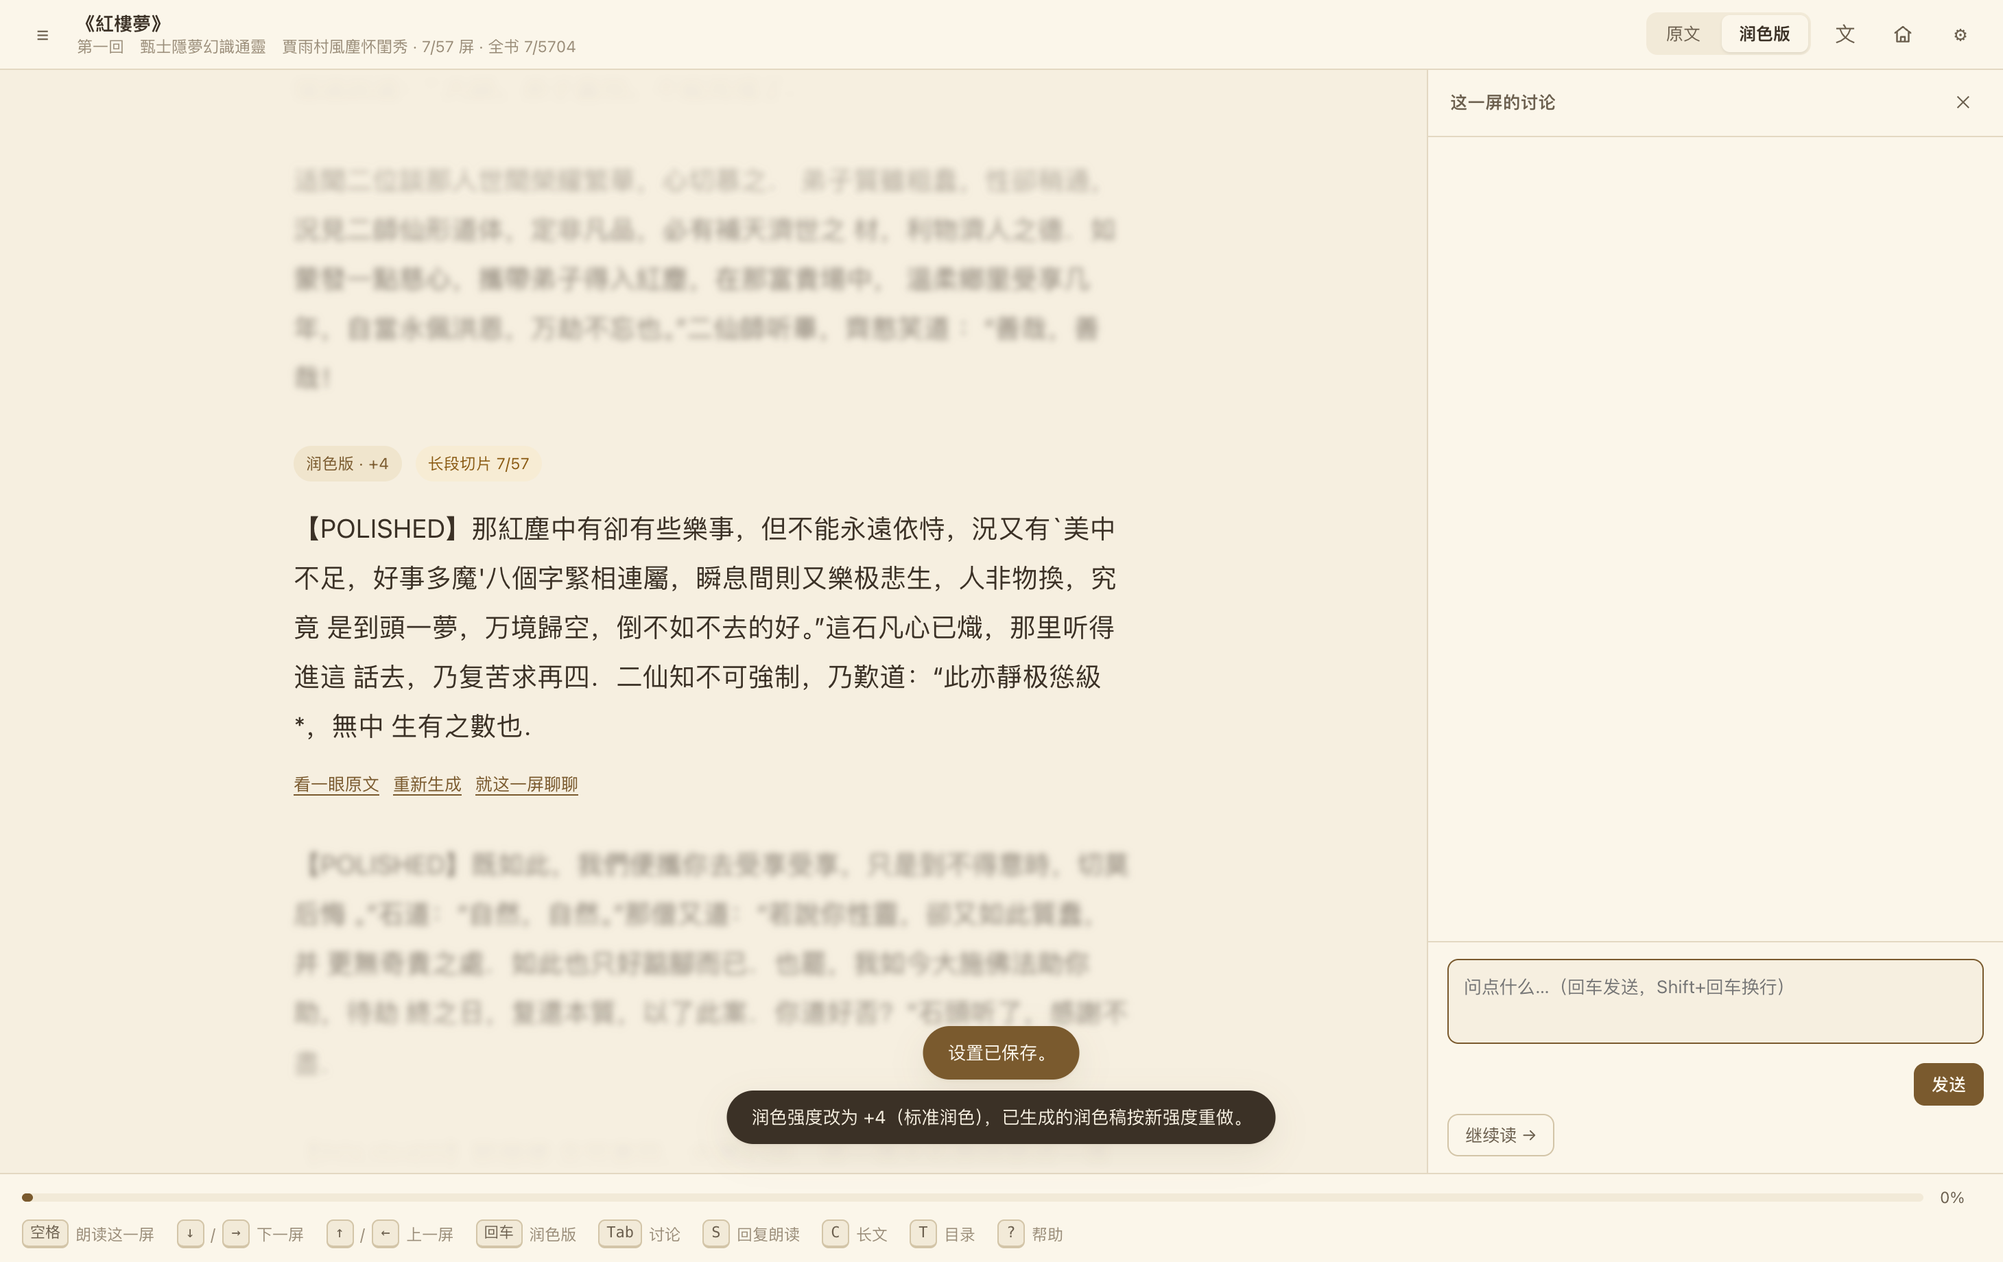
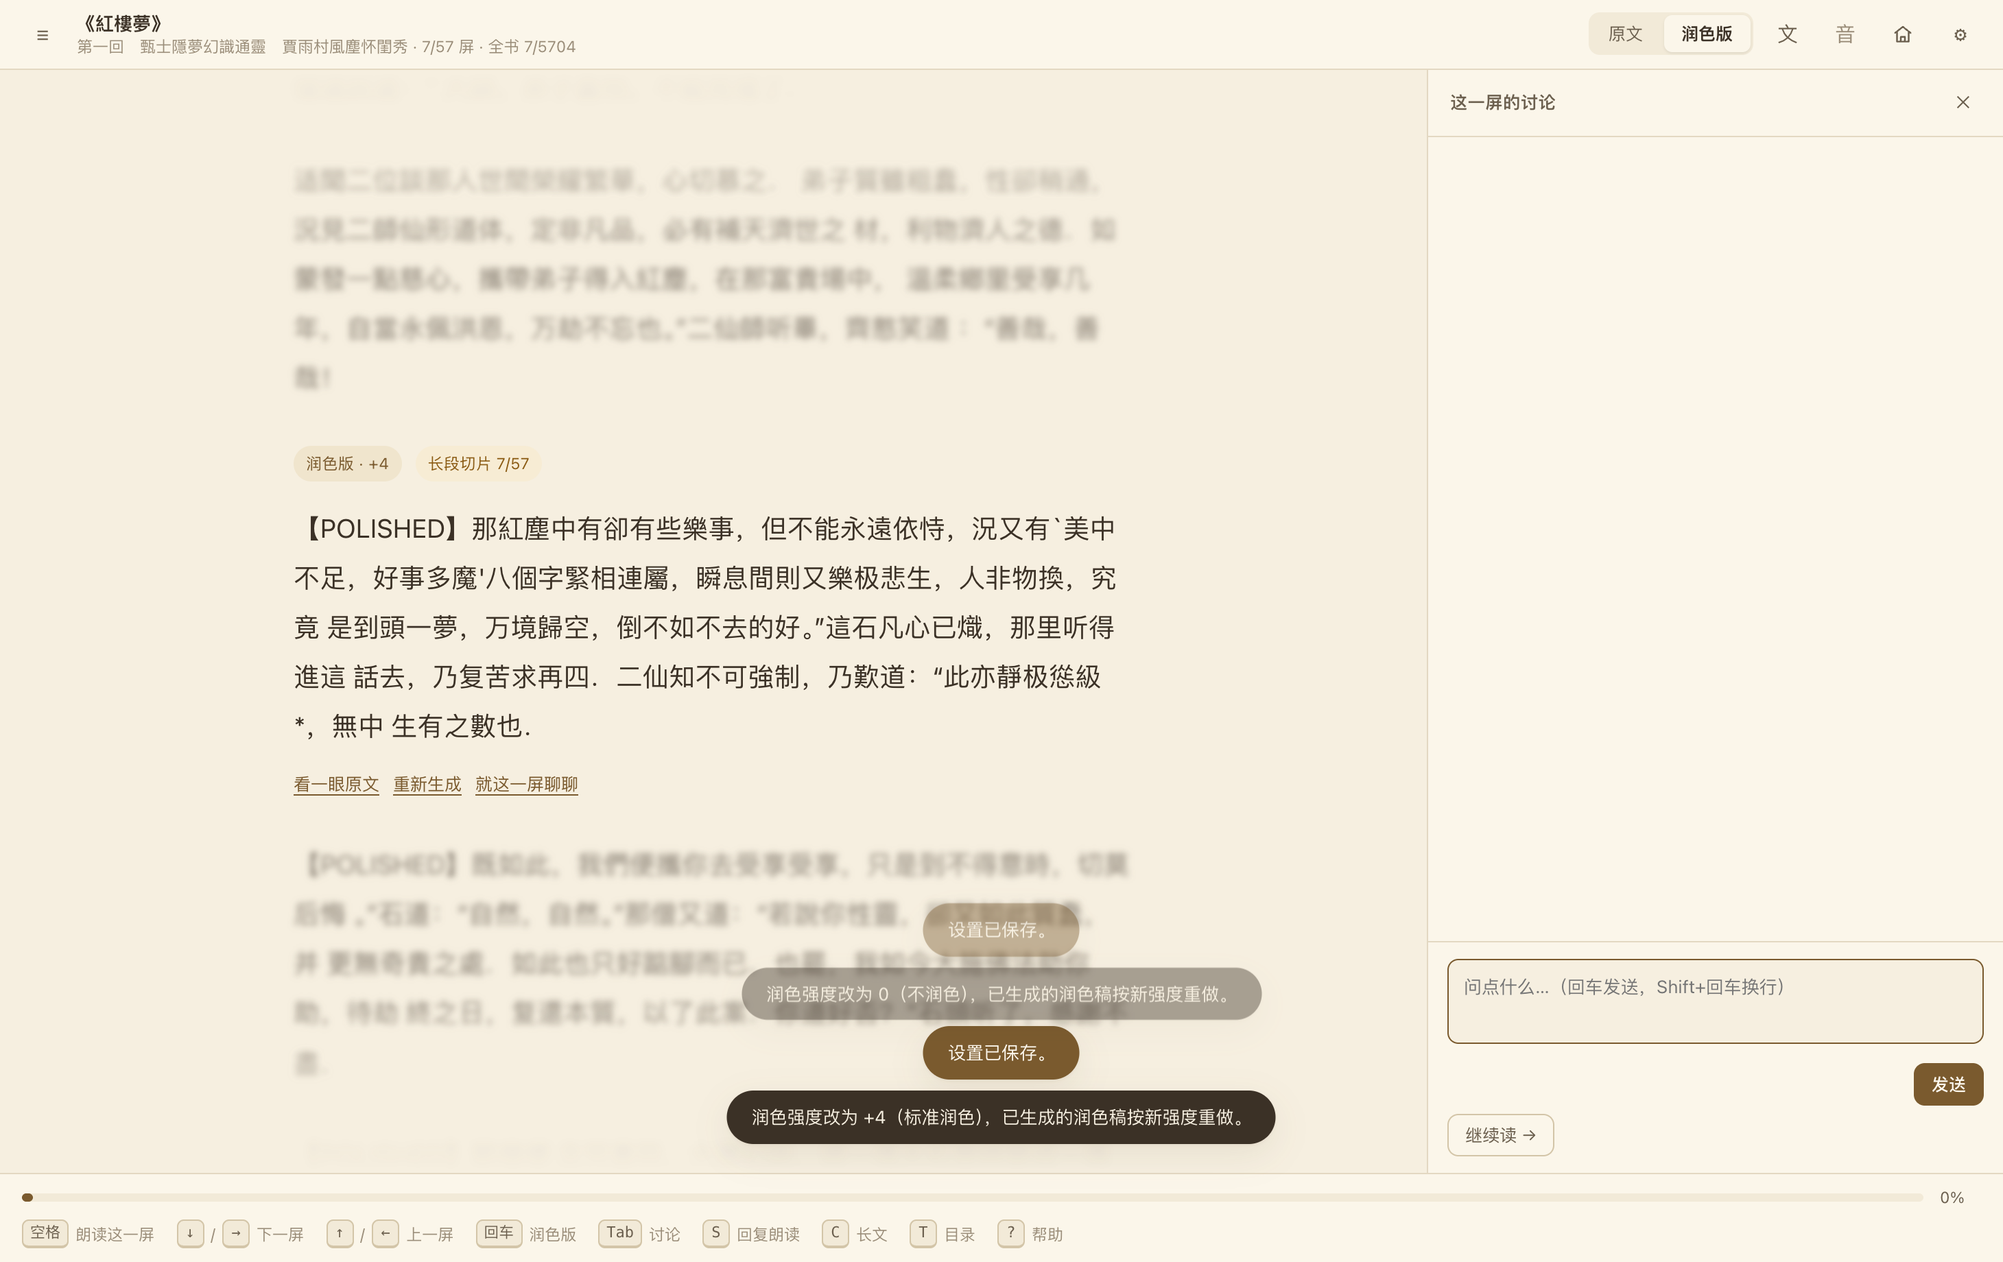
AI 伴读 v1.15~v1.18：音色中文标签、翻屏自动朗读、悬浮提示、引用角标过滤
- v1.15 朗读音色下拉显示中文特点（Serena·女声，温柔），option.value 仍是服务端认的英文名
- v1.16 顶栏「音」＝翻屏自动朗读开关（原设置弹窗里的开关移除），关闭时顺手停读
- v1.17 顶栏按钮的悬浮说明改用 data-tip + 伪元素气泡：原生 title 在 Chrome 要等约 1 秒才弹
- v1.18 润色稿里不显示引用角标（[11]/[12]/[1-3]/[11,12]，含全角）：
  prompts.js 的事实底线新增 1.1 条要求模型直接删；app.js 加 stripRefMarks() 兜底，
  只挂在「读盘」与「写入内存/磁盘」两个口子，渲染/朗读/长文视图共用同一份文本，
  磁盘里的旧稿也被覆盖；原文模式与「看一眼原文」照旧保留标号
- tts-server/README.md 去掉写死的本机绝对路径

验证：e2e-reading.mjs 108/108（新增 2 项盯引用角标）、e2e-space.mjs 42/42

Changed region(s): [[0.374, 0.7125, 0.6545, 0.8054], [0.8103, 0.0, 0.9038, 0.031]]

diff --git a/assets/ui.js b/assets/ui.js
@@ -260,7 +260,7 @@
       grid.push(h('div', { text: r[1] }));
     });
     var body = h('div', {}, [
-      h('p', { class: 'box-note', text: '焦点模式下当前段居中、前后文按距离虚化，正文不会滚动；用键或滚轮一屏一屏走。正文可以直接划词复制，也可以点前后文里虚化的某一段跳过去。空格读的是你此刻看到的这一版正文，换屏、换模式、切长文都会自动停下。讨论输入框里所有单字母快捷键与空格都不生效，正常输入。' }),
+      h('p', { class: 'box-note', text: '焦点模式下当前段居中、前后文按距离虚化，正文不会滚动；用键或滚轮一屏一屏走。正文可以直接划词复制，也可以点前后文里虚化的某一段跳过去。空格读的是你此刻看到的这一版正文，换屏、换模式、切长文都会自动停下。顶栏那个「音」＝翻屏自动朗读：亮着时每翻到新的一屏就自己念，灰着时不动。讨论输入框里所有单字母快捷键与空格都不生效，正常输入。' }),
       h('div', { class: 'kbd-list' }, grid)
     ]);
     return modal('快捷键', body, [h('button', { class: 'btn primary', type: 'button', onclick: onClose }, ['知道了'])], onClose);
@@ -541,6 +541,24 @@
       default: 'Serena', alloy: 'Serena', zf_xiaoxiao: 'Vivian',
       'zh-CN-XiaoxiaoNeural': 'Vivian', 'zh-CN-YunxiNeural': 'Uncle_Fu'
     };
+    // 预设音色的中文特点，格式固定「性别，特点」——英文名光摆着看不出男女、
+    // 也看不出是方言还是外语，用户挑音色等于瞎猜。只在下拉里显示，
+    // option 的 value 仍是纯英文名（服务端认的是那个）。
+    // 表里没有的音色（服务端以后加了新的）就只显示名字，不编描述。
+    var PRESET_DESC = {
+      Serena: '女声，温柔',
+      Vivian: '女声，明亮活泼',
+      Uncle_Fu: '男声，青年',
+      Dylan: '男声，北京口音',
+      Eric: '男声，四川口音',
+      Aiden: '男声，英语',
+      Ryan: '男声，英语',
+      Ono_Anna: '女声，日语',
+      Sohee: '女声，韩语'
+    };
+    function presetLabel(n) {
+      return PRESET_DESC[n] ? n + '·' + PRESET_DESC[n] : n;
+    }
     var savedVoice = String(settings.ttsAudio8Voice || 'Serena');
     var a8VoiceList = [];          // 从服务端拉回来的候选（扁平，含克隆音色）
     var a8PresetList = [];         // 只含预设音色
@@ -592,7 +610,8 @@
       if (presets.length) {
         var op = h('optgroup', { label: '预设音色' });
         presets.forEach(function (n) {
-          op.appendChild(h('option', { value: n, text: n === val && note ? n + note : n }));
+          var label = presetLabel(n);
+          op.appendChild(h('option', { value: n, text: n === val && note ? label + note : label }));
         });
         a8Voice.appendChild(op);
       }
@@ -621,8 +640,8 @@
           paintA8Voices();
           paintCloneList();
           var nClone = a8Clones.filter(function (c) { return c.has_audio !== false; }).length;
-          a8VoiceNote.textContent = '预设音色里Serena / Vivian 是中文女声，Uncle_Fu 是中文男声，'
-            + 'Dylan 是北京口音、Eric 是四川口音。'
+          // 性别/口音已经跟在每个音色名后面了，这里不再重复一遍
+          a8VoiceNote.textContent = 'Serena 是默认音色，选中后点「试听」听效果。'
             + (nClone ? ('　已有 ' + nClone + ' 个克隆音色。') : '');
         } else if (!quiet) {
           a8VoiceNote.textContent = '没连上本地服务，先列出默认音色。点「测试本地服务」能重新拉一次。';
@@ -1051,17 +1070,8 @@
       audio8Row
     ]), '讨论里 AI 的每句回复都会跟着读出来；中途再发一条消息会打断上一段。读的时候按 S 可以直接停。');
 
-    // 正文朗读（空格那个）。和上面「朗读 AI 回复」是两回事：这里管的是翻屏之后
-    // 要不要自动开口，开关本身不改变空格键的语义（正在读时按一下照样是停）。
-    var autoSpeakBox = input({ type: 'checkbox', id: 'auto-speak' });
-    autoSpeakBox.checked = settings.autoSpeak === true;
-
-    var autoSpeakField = field('翻屏自动朗读', h('div', {}, [
-      h('label', { class: 'inline-check', for: 'auto-speak' }, [
-        autoSpeakBox,
-        h('span', { text: '翻到新的一屏，直接开始念' })
-      ])
-    ]), '打开后，翻屏（↓/→、滚轮、[ / ]）会自动朗读新这一屏，省掉第一次按空格。空格键的行为不变：再按一次＝停。切模式、进长文、回书架照旧自动停。');
+    // 正文朗读的「翻屏自动朗读」开关不在这里 —— 它挪到阅读页顶栏的那个「音」了
+    // （听的时候随手就能关，不用为了关它去开设置弹窗）。字段仍叫 settings.autoSpeak。
 
     var io = h('div', { class: 'unit-actions' }, [
       h('button', { class: 'btn ghost small', type: 'button', onclick: function () { handlers.onExport(); } }, ['导出全部数据']),
@@ -1080,7 +1090,6 @@
       field('行距', h('div', { class: 'range-row' }, [lineInput, lineVal])),
       field('主题', themeWrap),
       ttsField,
-      autoSpeakField,
       h('div', { class: 'field' }, [
         h('label', { text: '数据' }),
         io
@@ -1106,8 +1115,7 @@
         ttsRate: Number(rateInput.value) || 1,
         ttsAudio8Url: a8Url.value.trim() || 'http://127.0.0.1:8024',
         ttsAudio8Voice: (a8Voice.value || '').trim() || 'Serena',
-        ttsIdleUnload: !!idleUnloadBox.checked,
-        autoSpeak: !!autoSpeakBox.checked
+        ttsIdleUnload: !!idleUnloadBox.checked
       };
     }
 

diff --git a/assets/app.js b/assets/app.js
@@ -391,6 +391,19 @@
   }
 
   // ═══════════ 润色稿：加载 / 生成 / 预取 ═══════════
+  /**
+   * 原文里的引用角标（[11]、[12]、[1-3]、[11,12]，含全角）在润色稿里一律不显示。
+   * 提示词已经要求模型删掉，这里是兜底：模型没删干净、或磁盘里的旧稿都要抹平。
+   * 只在「进入内存/写进磁盘」这一个口子上过滤，之后渲染、朗读、长文视图共用同一份文本。
+   * ★ 整屏只有标号的极端情况宁可不删，也不返回空串（空串会被当成「没有润色稿」而卡在 pending）。
+   */
+  var REF_MARK_RE = /[ \t\u3000]*[\[［][ \t\u3000]*\d+(?:[ \t\u3000]*[-–—~～,，、][ \t\u3000]*\d+)*[ \t\u3000]*[\]］](?:[ \t\u3000]+(?=[^A-Za-z0-9]|$))?/g;
+  function stripRefMarks(text) {
+    var s = String(text == null ? '' : text);
+    var out = s.replace(REF_MARK_RE, '');
+    return out.trim() ? out : s;
+  }
+
   /** 内存里某一屏当前强度下的润色稿（强度改过就不算数） */
   function rewriteText(unit) {
     var rec = S.rewrites.get(keyOf(unit));
@@ -404,7 +417,11 @@
     var lv = levelNow();
     return Store.getRewrite(S.book.id, unit.id).then(function (rec) {
       // 旧稿如果是在别的强度下生成的，不能拿来用——当它不存在，让它按新强度重做
-      if (rec && rec.text && rec.level === lv) { S.rewrites.set(key, { text: rec.text, level: lv }); return rec.text; }
+      if (rec && rec.text && rec.level === lv) {
+        var clean = stripRefMarks(rec.text);
+        S.rewrites.set(key, { text: clean, level: lv });
+        return clean;
+      }
       S.rewrites.set(key, null);
       return null;
     }).catch(function () {
@@ -438,8 +455,10 @@
       }).then(function (text) {
         // 生成期间用户改了强度 → 这份稿子作废，别写进缓存，交给 schedule() 按新强度重做
         if (S.book !== book || lv !== levelNow()) return null;
-        S.rewrites.set(key, { text: text, level: lv });
-        return Store.saveRewrite(bookId, unit.id, text, S.settings.model, lv).then(function () { return text; });
+        // 引用角标不许进内存、也不许进磁盘：显示、朗读、长文都读这份文本
+        var clean = stripRefMarks(text);
+        S.rewrites.set(key, { text: clean, level: lv });
+        return Store.saveRewrite(bookId, unit.id, clean, S.settings.model, lv).then(function () { return clean; });
       });
     }).catch(function (err) {
       S.rwErr.set(key, LLM.humanize(err));
@@ -563,6 +582,7 @@
     }
     $('btn-toc').classList.toggle('on', S.tocOpen);
     $('btn-long').classList.toggle('on', S.longMode);
+    $('btn-auto-speak').classList.toggle('on', !!(S.settings && S.settings.autoSpeak));
   }
 
   function renderTopbar() {
@@ -1175,6 +1195,7 @@
     $('btn-settings').addEventListener('click', openSettings);
     $('btn-toc').addEventListener('click', function () { S.tocOpen = !S.tocOpen; renderToc(); syncButtons(); });
     $('btn-long').addEventListener('click', toggleLong);
+    $('btn-auto-speak').addEventListener('click', toggleAutoSpeak);
     $('mode-original').addEventListener('click', function () { setMode('original'); });
     $('mode-polished').addEventListener('click', function () { setMode('polished'); });
 
@@ -1378,6 +1399,26 @@
     cancelAutoSpeak();
     if (!autoSpeakArmed()) return;
     autoSpeakTimer = setTimeout(fireAutoSpeak, AUTO_SPEAK_DELAY);
+  }
+
+  /** 顶栏「音」：翻屏自动朗读的开 / 关。
+   *  原来在设置弹窗里，挪到阅读页是为了「听着的时候随手就能关」——
+   *  关掉顺手把这一屏正在念的也停住，否则按钮已经灰了、声音还在响。 */
+  function toggleAutoSpeak() {
+    if (!S.settings) S.settings = {};
+    var on = !S.settings.autoSpeak;
+    S.settings.autoSpeak = on;
+    Store.saveSettings({ autoSpeak: on }).catch(function () {});
+    if (!on) {
+      cancelAutoSpeak();
+      if (unitTtsLive()) stopUnitTts();
+    }
+    syncButtons();
+    UI.toast(on
+      ? (S.longMode
+        ? '翻屏自动朗读已打开：回到焦点阅读才生效（长文里空格交给浏览器翻页）。'
+        : '翻屏自动朗读已打开：翻到新的一屏就会自动念。')
+      : '翻屏自动朗读已关闭。');
   }
 
   /** S 键：开 / 关朗读。开着的时候按 = 立刻停 */

diff --git a/assets/app.css b/assets/app.css
@@ -84,6 +84,45 @@ kbd{
 .icon-btn.small{width:26px;height:26px;font-size:13px}
 .icon-btn.on{background:var(--accent-soft);color:var(--accent)}
 .icon-btn svg{display:block;margin:0 auto}
+/* 翻屏自动朗读（顶栏「音」）：关＝灰着，开＝和「文」一样的强调色。
+   用 id 选择器是因为要盖掉 .icon-btn 的默认色，顺带把 :hover 也补回来。 */
+#btn-auto-speak:not(.on){color:var(--ink3)}
+#btn-auto-speak:not(.on):hover{background:var(--panel2);color:var(--ink)}
+
+/* 悬浮说明走伪元素，不用原生 title —— 原生那个要等约 1 秒才弹，
+   用户盯着按钮看半天会以为功能没做（v1.17 用户反馈的就是这一条）。
+   悬浮 60ms 就出（只防手滑扫过），移开立即收；pointer-events:none 免得它挡住自己。 */
+.icon-btn[data-tip]{position:relative}
+.icon-btn[data-tip]::after{
+  content:attr(data-tip);
+  position:absolute;top:calc(100% + 9px);right:-4px;
+  width:max-content;max-width:280px;
+  background:var(--panel);color:var(--ink);border:1px solid var(--line);
+  border-radius:8px;padding:7px 10px;box-shadow:var(--shadow);
+  font-size:12.5px;font-weight:400;line-height:1.55;text-align:left;
+  opacity:0;visibility:hidden;transform:translateY(-4px);
+  pointer-events:none;z-index:60;
+  transition:opacity .12s ease,transform .12s ease,visibility 0s linear .12s;
+}
+.icon-btn[data-tip]:hover::after,
+.icon-btn[data-tip]:focus-visible::after{
+  opacity:1;visibility:visible;transform:translateY(0);
+  transition-delay:.06s,.06s,0s;
+}
+/* 指向按钮的小尖角（旋转 45° 的方块，只留左上两条边），让它一眼知道是谁的说明 */
+.icon-btn[data-tip]::before{
+  content:'';position:absolute;top:calc(100% + 5px);right:15px;
+  width:9px;height:9px;background:var(--panel);
+  border-left:1px solid var(--line);border-top:1px solid var(--line);
+  transform:rotate(45deg) translate(-2px,-2px);
+  opacity:0;visibility:hidden;pointer-events:none;z-index:61;
+  transition:opacity .12s ease,visibility 0s linear .12s;
+}
+.icon-btn[data-tip]:hover::before,
+.icon-btn[data-tip]:focus-visible::before{
+  opacity:1;visibility:visible;transform:rotate(45deg) translate(0,0);
+  transition-delay:.06s,0s;
+}
 
 /* ═══════════════ 书架 ═══════════════ */
 .screen{position:fixed;inset:0;overflow:auto}

diff --git a/assets/prompts.js b/assets/prompts.js
@@ -101,6 +101,7 @@
     lines.push('');
     lines.push('== 事实底线（任何强度下都不许突破）==');
     lines.push('1. 事实不增不减。原文有的事实、数字、年份、人名地名、专有名词、引语的含义必须全部保留，且不许替换成你自己习惯的叫法；原文没有的事实一律不许添加——不解释、不评论、不补充背景、不加小标题。允许增删的只有「表达」层面的东西：连接词、指代、冗余修饰、同义重复。');
+    lines.push('1.1 原文里形如 [11]、[12]、[13]、[1-3]、[11,12] 的方括号数字是引用角标/脚注标号，不算上面说的「数字」，改写后一律不要出现——直接删掉，不要保留、不要换个位置、也不要改写成"见注 11""参考文献 11"之类的说法。它前后的句子照常处理，删掉标号后不要把前后文合并或改写。');
     lines.push('2. 不改变人称、时态、叙述视角、叙述顺序。');
     lines.push('3. 只输出改写后的正文本身。不要任何前言、说明、标题、编号、markdown 标记、代码块，也不要用引号把整段包起来。');
     lines.push('4. 原文可能是从一本书里切出来的一屏，开头或结尾可能是一个不完整的句子——照原样处理，不要替它补全，也不要提示"这句话不完整"。');

diff --git a/main.html b/main.html
@@ -53,6 +53,8 @@
         <button id="mode-polished" class="mode-btn" type="button">润色版</button>
       </div>
       <button id="btn-long" class="icon-btn" type="button" title="连续长文 (C)">文</button>
+      <button id="btn-auto-speak" class="icon-btn" type="button" aria-label="翻屏自动朗读"
+        data-tip="翻屏自动朗读：翻到新的一屏就自动念出来，不用再按空格。正在念时再点一下＝关闭">音</button>
       <button id="btn-home" class="icon-btn" type="button" title="回到书架 (Esc)" aria-label="回到书架">
         <svg viewBox="0 0 24 24" width="16" height="16" fill="none" stroke="currentColor" stroke-width="1.8" stroke-linecap="round" stroke-linejoin="round" aria-hidden="true">
           <path d="M3.5 10.5 12 3.8l8.5 6.7"></path>

diff --git a/README.md b/README.md
@@ -32,11 +32,11 @@
 ## 特性
 
 - **焦点阅读**：当前屏居中，前后各 12 屏留在视野里（越远越虚化），上下文不丢。
-- **AI 润色，强度 -10 ~ +10**：正数提高易读性（拆长句、补连接词、少用生僻词），负数提高信息密度（压废话），**0 = 不润色**。事实、数字、年份、专有名词、引语含义在**任何强度下都不许改**。
+- **AI 润色，强度 -10 ~ +10**：正数提高易读性（拆长句、补连接词、少用生僻词），负数提高信息密度（压废话），**0 = 不润色**。事实、数字、年份、专有名词、引语含义在**任何强度下都不许改**；原文里的引用角标（`[11]`、`[12]`、`[1-3]` 这类）在润色版里一律不显示，原文模式照旧保留。
 - **每本书一个强度**：第一次打开这本书时 AI 会试读几段、自动给一个建议强度，之后随时可手调，也可一键调回 AI 的判断。
 - **逐屏讨论**：右侧抽屉，流式回复；对话跟着屏走，翻回来还在。
 - **长文模式**：整章连续排版，点某一段就吸附回焦点模式。
-- **朗读**：空格朗读当前屏；可开「翻屏自动朗读」；引擎可选系统语音或本地 Qwen3-TTS（支持音色克隆）。
+- **朗读**：空格朗读当前屏；顶栏的「音」＝翻屏自动朗读（灰着是关，点亮后每翻一屏就自己念）；引擎可选系统语音或本地 Qwen3-TTS（支持音色克隆）。
 - **零后端**：书、进度、讨论记录都在浏览器 IndexedDB 里；API Key 也只存在本地。
 
 ## 快速开始

diff --git a/tts-server/README.md b/tts-server/README.md
@@ -325,7 +325,7 @@ def gen():
 ## 验证
 
 ```bash
-cd /Users/MacBook/.workbuddy/binaries/node/workspace
+cd <放 e2e 脚本的目录>     # 须在该目录下跑，node_modules 才解析得到
 node e2e-qwen3.mjs      # 49 项：接口 / 整段 / 旧音色名兼容 / 流式首包 / 页面里真出声 /
                         #        打断 / 404 回落 / 打断后服务端不死锁
 node e2e-clone.mjs      # 78 项：克隆音色的完整用户链路（78 项，见下）
